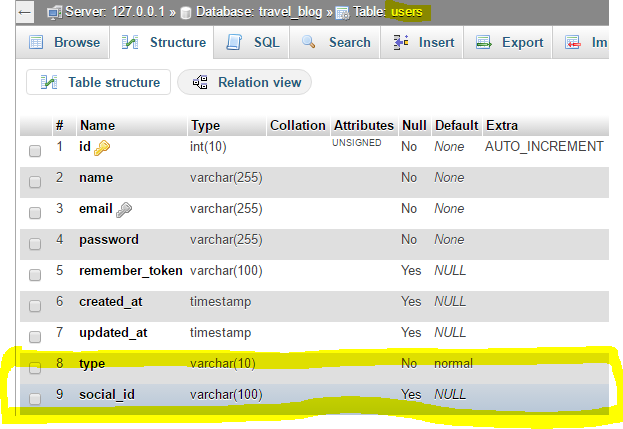
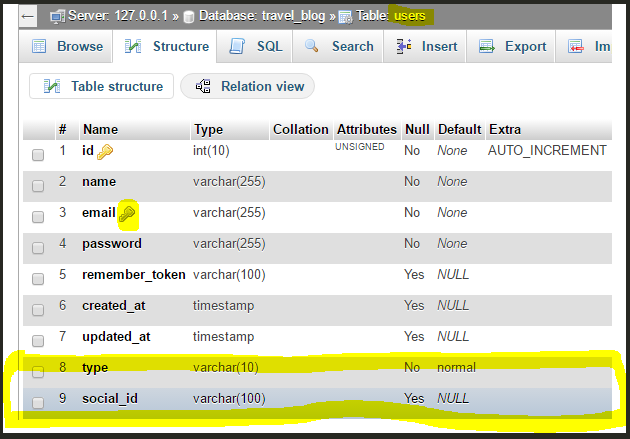
social login tweeks

diff --git a/app/Http/Controllers/Auth/RegisterController.php b/app/Http/Controllers/Auth/RegisterController.php
@@ -47,10 +47,16 @@ class RegisterController extends Controller
      */
     protected function validator(array $data)
     {
+        // return Validator::make($data, [
+        //     'name' => 'required|max:255',
+        //     'email' => 'required|email|max:255|unique:users',
+        //     'password' => 'required|min:6|confirmed',
+        // ]);
         return Validator::make($data, [
             'name' => 'required|max:255',
-            'email' => 'required|email|max:255|unique:users',
+            'email' => 'required|email|max:255|unique_with:users,type',
             'password' => 'required|min:6|confirmed',
+            'type' => 'required',
         ]);
     }
 

diff --git a/config/app.php b/config/app.php
@@ -182,6 +182,8 @@ return [
         Laravel\Passport\PassportServiceProvider::class,
 
         Laravel\Socialite\SocialiteServiceProvider::class,
+
+        Felixkiss\UniqueWithValidator\ServiceProvider::class,
     ],
 
     /*

diff --git a/readme.md b/readme.md
@@ -295,7 +295,107 @@ Add new columns in database's users table for social login
 
 ![](https://raw.githubusercontent.com/atabegruslan/Travel-Blog-Laravel-5/master/Illustrations/new_social_db_cols.PNG)
 
-In app/User.php model
+Also make the email column not unique (above image). The existing code don't yet allow the same email address to be used for normal and social logins. To allow distinction between same emails of different login methods:
+
+For Login:
+
+In vendor\laravel\framework\src\Illuminate\Foundation\Auth\AuthenticatesUsers.php 
+
+```php
+protected function credentials(Request $request)
+{
+    //return $request->only($this->username(), 'password');
+    $request = $request->only($this->username(), 'password');
+    $request['type'] = 'normal';
+    return $request;
+}
+```
+
+For Register:
+
+In vendor\laravel\framework\src\Illuminate\Foundation\Auth\RegistersUsers.php 
+
+```php
+public function register(Request $request)
+{
+    $request['type'] = 'normal';  // add this line
+    $this->validator($request->all())->validate();
+```
+
+In app\Http\Controllers\Auth\RegisterController.php
+
+```php
+protected function validator(array $data)
+{
+    // return Validator::make($data, [
+    //     'name' => 'required|max:255',
+    //     'email' => 'required|email|max:255|unique:users',
+    //     'password' => 'required|min:6|confirmed',
+    // ]);
+    return Validator::make($data, [
+        'name' => 'required|max:255',
+        'email' => 'required|email|max:255|unique_with:users,type',
+        'password' => 'required|min:6|confirmed',
+        'type' => 'required',
+    ]);
+}
+```
+
+Notice that `unique_with` is used to allow composite key validation. 
+
+In CLI: `composer require felixkiss/uniquewith-validator`
+
+In config/app.php
+
+```php
+'providers' => [
+    ...
+    Felixkiss\UniqueWithValidator\ServiceProvider::class,
+],
+```
+
+More info about `unique_with` : https://github.com/felixkiss/uniquewith-validator
+
+For Forget Passwords:
+
+In vendor\laravel\framework\src\Illuminate\Foundation\Auth\SendsPasswordResetEmails.php
+
+```php
+public function sendResetLinkEmail(Request $request)
+{
+    $this->validate($request, ['email' => 'required|email']);
+
+    $request1 = $request->only('email'); // add this line
+    $request1['type'] = 'normal'; // add this line
+
+    $response = $this->broker()->sendResetLink(
+        //$request->only('email')
+        $request1 // add this line
+    );
+
+    return $response == Password::RESET_LINK_SENT
+                ? $this->sendResetLinkResponse($response)
+                : $this->sendResetLinkFailedResponse($request, $response);
+}
+```
+
+In vendor\laravel\framework\src\Illuminate\Foundation\Auth\ResetsPasswords.php
+
+```php
+protected function credentials(Request $request)
+{
+    $request = $request->only(
+        'email', 'password', 'password_confirmation', 'token'
+    );
+    $request['type'] = 'normal';
+    return $request;
+    // return $request->only(
+    //     'email', 'password', 'password_confirmation', 'token'
+    // );
+}
+```
+
+Modify the app/User.php model too
 
 ```php
 class User extends Authenticatable{
